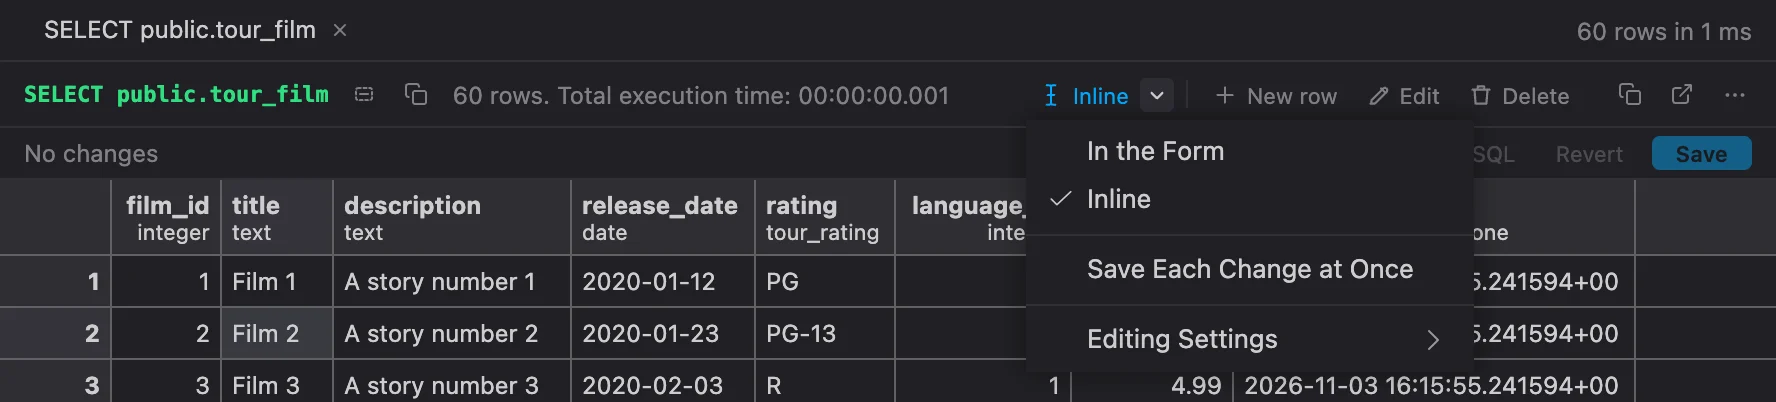
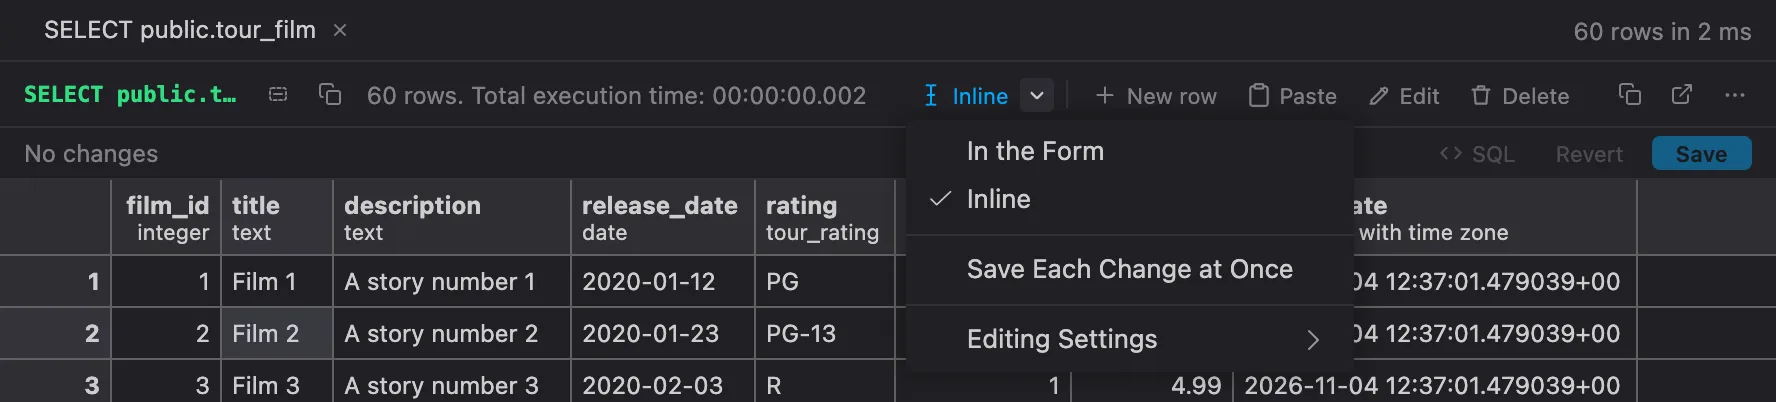
changelog: 0.30.0 notes, paste into a table with its settings and pictures, arrows scroll over whole rows and columns, a scrollbar keeps the selection; the bar's pictures show Paste

diff --git a/changelog/free-v0.30.0/README.md b/changelog/free-v0.30.0/README.md
@@ -1,15 +1,17 @@
 # PlumeSQL 0.30.0
 
-Edit a table's rows right in the results grid, as in a spreadsheet. A
-LEFT JOIN that quietly turns into a JOIN is caught, the row editor shows
-the SQL it runs, and PlumeSQL now opens in your theme from the very first
-frame.
+Edit a table's rows right in the results grid, as in a spreadsheet, and
+paste rows into it from one. A LEFT JOIN that quietly turns into a JOIN is
+caught, the row editor shows the SQL it runs, and PlumeSQL now opens in your
+theme from the very first frame.
 
 ## Highlights
 
 - **Inline editing:** change cells, add and delete rows in the grid,
   then save it all in one transaction. Or keep the form: you choose the
   default.
+- **Paste into a table:** copy from Excel, a result or JSON, press ⌘V, see
+  what will change, then confirm. Update cells or add new rows.
 - **A LEFT JOIN its WHERE undoes:** a warning on the condition, and one
   click moves it where it keeps the rows you meant.
 - **The SQL of a row edit:** the form shows the UPDATE or INSERT it will
@@ -76,6 +78,70 @@ them for one workspace only, use **Editing Settings** in the same menu.
 ```setting
 results.editMode
 results.inlineSave
+```
+
+## Paste into a table
+
+Copy rows from Excel, Sheets or a PlumeSQL result, click a cell of a table's
+results and press ⌘V or Ctrl+V. **Paste** on the bar above the grid does the
+same. Nothing changes until you have seen what the paste will do.
+
+![The Paste dialog for public.tour_film: Update 6 cells in 2 rows, add 1 new row, with Update from the selection chosen, Tab separated detected, First column goes to title, Add 1 row past the end as new rows ticked, and a preview of two rows with old and new values such as Film 2 to Film II, and a new row marked with a plus, above SQL, Edit inline, Cancel and Paste](media/paste-dialog.webp)
+
+**You choose what it does.** With a selection, **Update from the selection**
+comes first and **Add as new rows** is one click away:
+
+- A block lands from the selection's first cell, right and down.
+- One value over a range fills the range.
+- Rows past the end of the result become new rows, unless you untick it.
+
+**The format is detected.** Tab separated (what a spreadsheet copies), comma
+separated, JSON and Markdown tables, the formats Copy writes. If the guess is
+wrong, pick another in the dialog.
+
+**Each value finds its column:**
+
+- JSON objects go by name.
+- Everything else goes by position, from the column you pick in **First column
+  goes to**.
+- A first row of column names is recognized, and then the values go by those
+  names, in any order.
+- A generated column takes no value: it is skipped, and the dialog says so.
+
+**An empty field is NULL** where the column allows it, so a copied NULL comes
+back as NULL. In a NOT NULL column, it is the empty string where the type has
+one.
+
+**What cannot be written holds the button.** A value the column refuses shows
+red with the reason, and **Paste** waits until it is put right. A number with
+a decimal comma, such as `1,5`, is refused for now.
+
+![The same dialog with cheap in the rental_rate column, in red, and below the preview: 1 value the columns cannot take, Row 2, rental_rate: not a number, with Paste disabled](media/paste-refused.webp)
+
+**When it is written follows the Edit Mode:**
+
+- **Form:** **Paste** writes it all in one transaction, all or nothing, and one
+  **Undo** in the Log takes the whole paste back. **Edit inline** in the dialog
+  makes it pending instead.
+- **Inline:** **Add as Pending Changes** writes nothing until Save, and one ⌘Z
+  or Ctrl+Z takes the whole paste back. New rows wait at the end of the result,
+  in the order you copied them.
+- **Save Each Change at Once:** **Paste and Save** writes it all in one
+  transaction.
+
+**SQL** in the dialog shows the statements, to copy or open as a script. A row
+someone changed since the dialog read it refuses the whole paste, and nothing
+is written.
+
+Paste works where editing does: a query that reads one table, with its key in
+the result. A table with no key takes new rows only. One paste holds up to
+10,000 rows.
+
+```setting
+results.pasteFormat
+results.pasteHeaders
+results.pasteEmpty
+results.pasteMaxRows
 ```
 
 ## A LEFT JOIN its WHERE undoes
@@ -174,7 +240,15 @@ buttons and stand on the right beside them, after the edit mode: the left
 of the bar tells what ran, the right holds what you can do. In a narrow
 pane they keep their icons.
 
-![The bar above the rows of public.tour_film: SELECT public.tour_film and its run time on the left; Form with its arrow, New row, Edit and Delete on the right, flat, beside the copy, open in tab and more buttons](media/row-actions-right.webp)
+![The bar above the rows of public.tour_film: SELECT public.tour_film and its run time on the left; Form with its arrow, New row, Paste, Edit and Delete on the right, flat, beside the copy, open in tab and more buttons](media/row-actions-right.webp)
+
+### Arrows scroll over whole rows and columns
+
+With whole rows selected in a result wider than its pane, ←, →, Home and End
+now scroll sideways and the selection stays. With whole columns selected, ↑,
+↓, PageUp and PageDown scroll. With everything selected, all of them do. The
+other direction still moves to a cell, and so does a range of cells, as in a
+spreadsheet.
 
 ### Only a query that reads one table edits its rows
 
@@ -240,6 +314,9 @@ The Search pane's results read more easily, above all in a narrow pane:
 
 ## Fixed
 
+- **A click on a scrollbar keeps the selection.** Pressing a results grid's
+  scrollbar counted as a click on empty space and dropped what you had
+  selected.
 - **A range from a frozen row selects what you dragged over.** A selection
   dragged from a row frozen at the top into the rows below took every row
   whose number fell between the two ends, often far more than you saw. It
